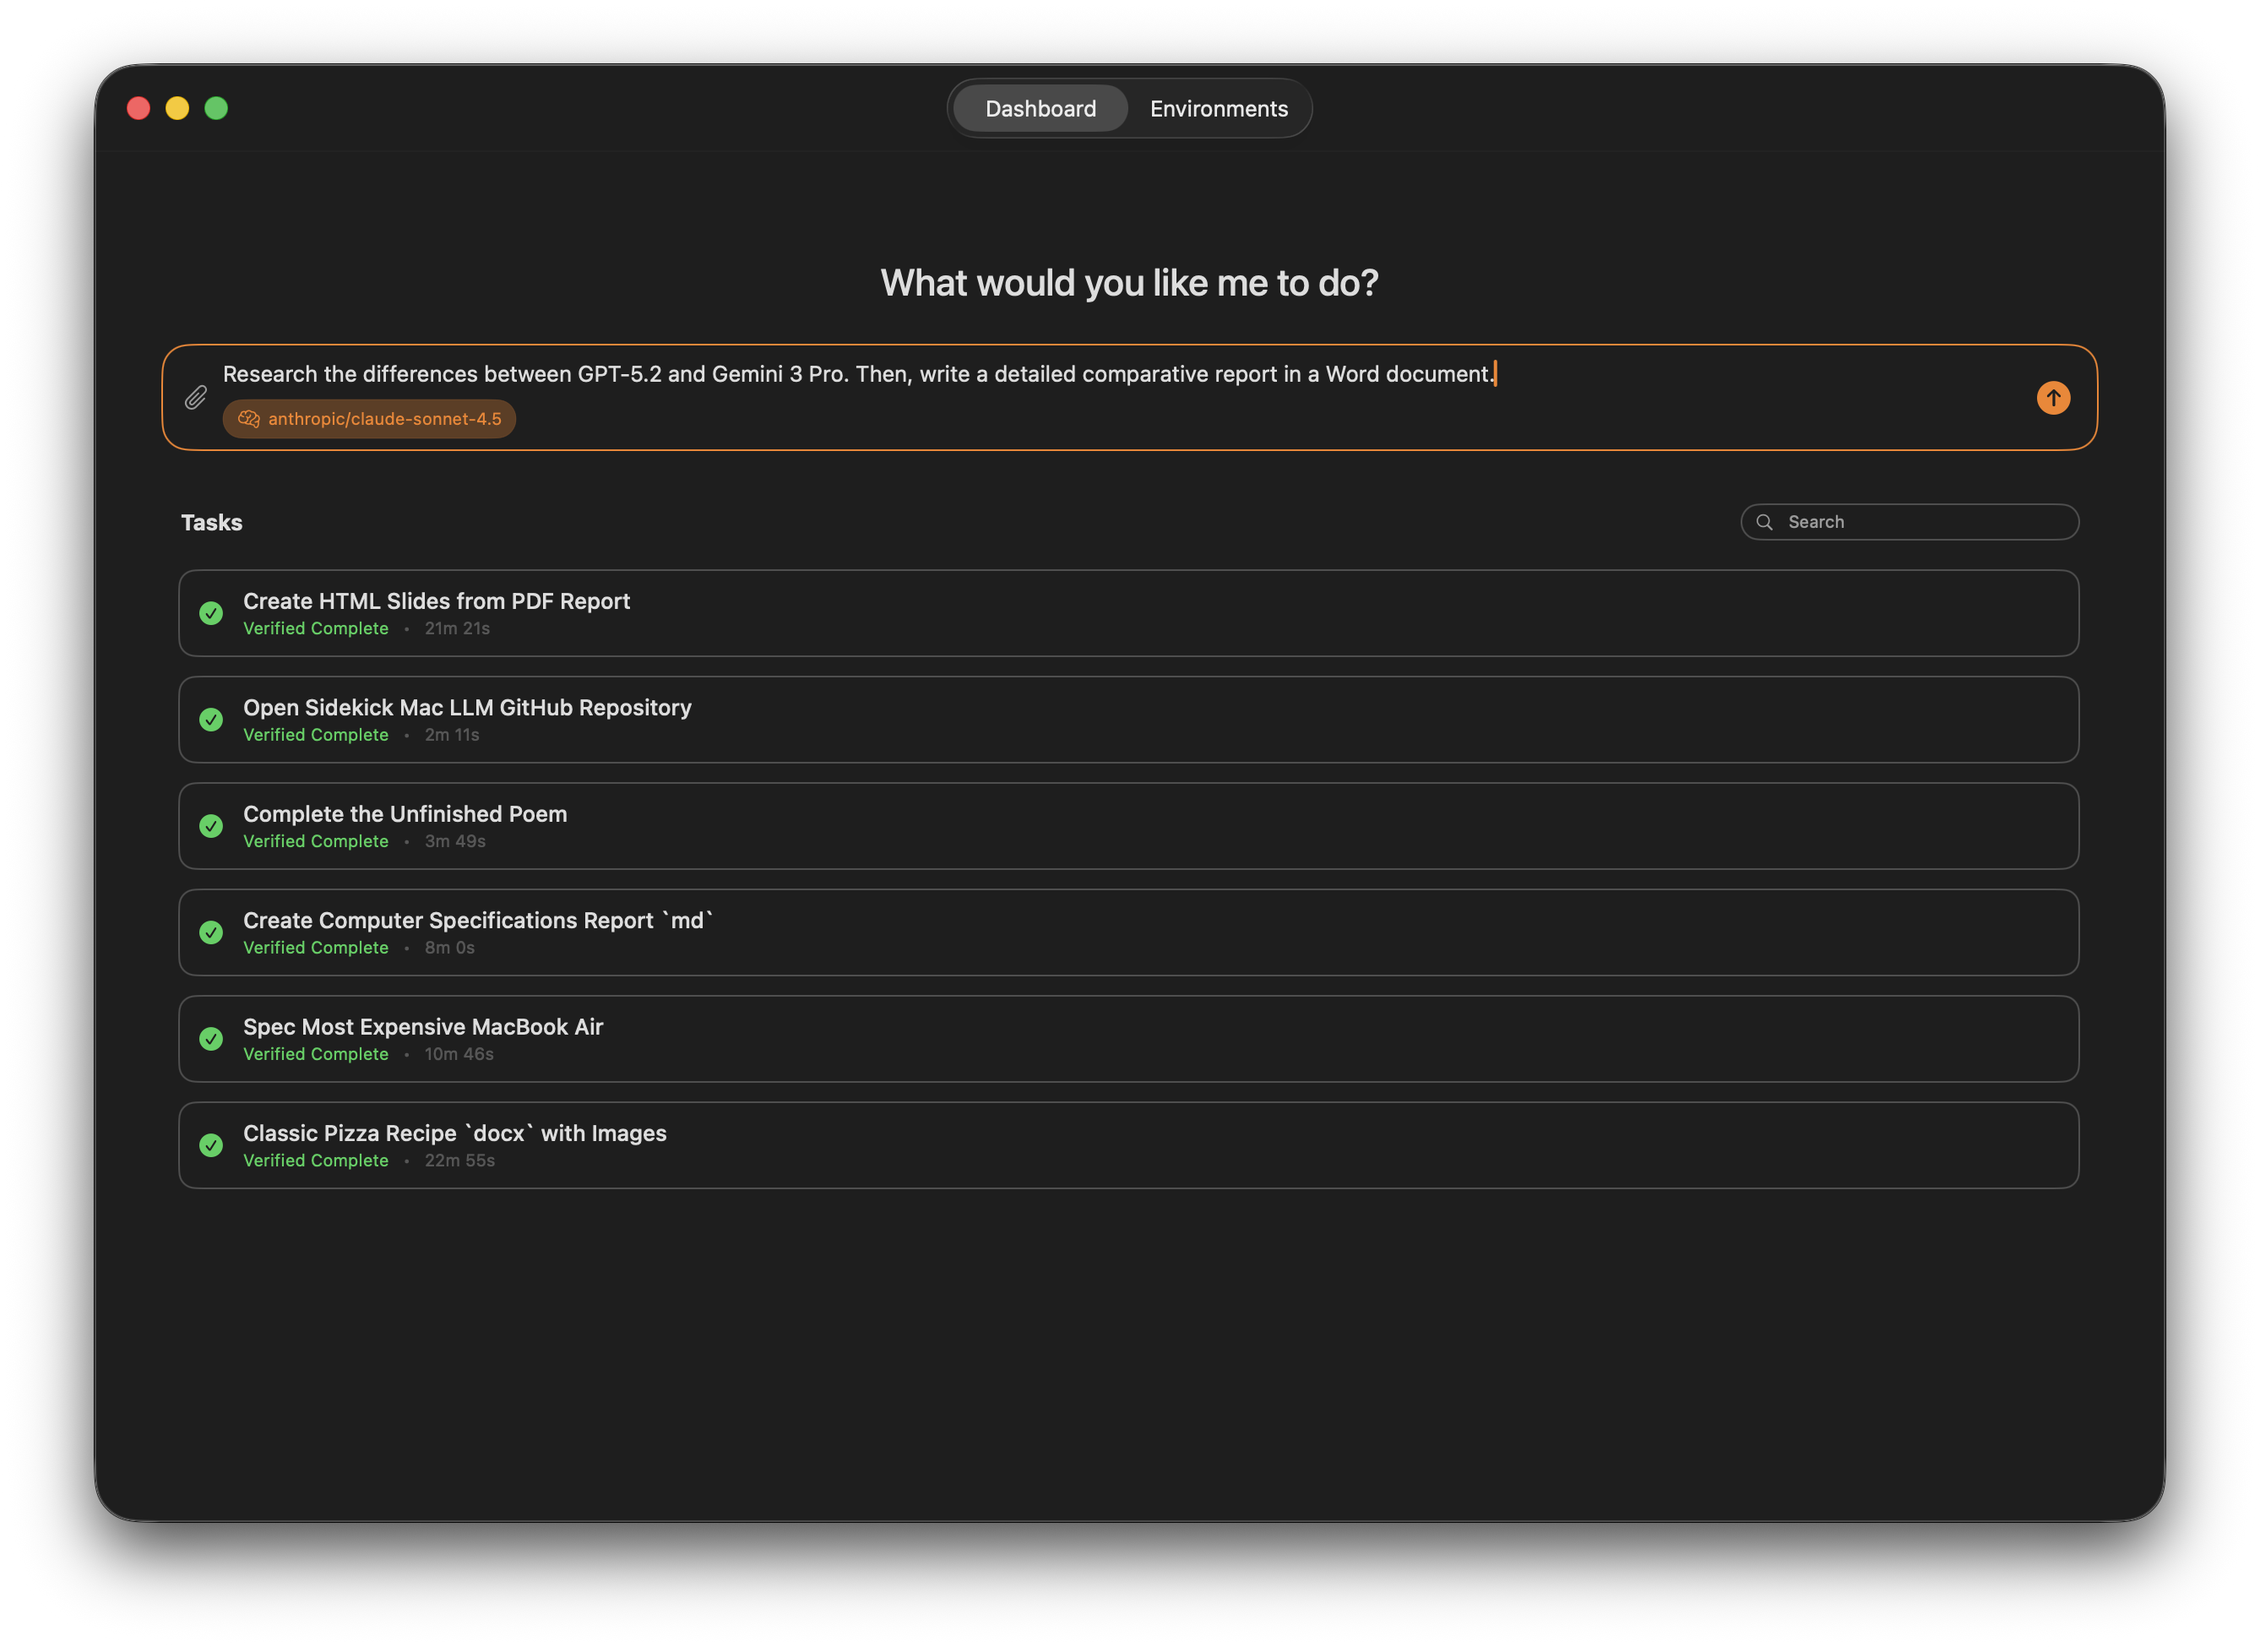
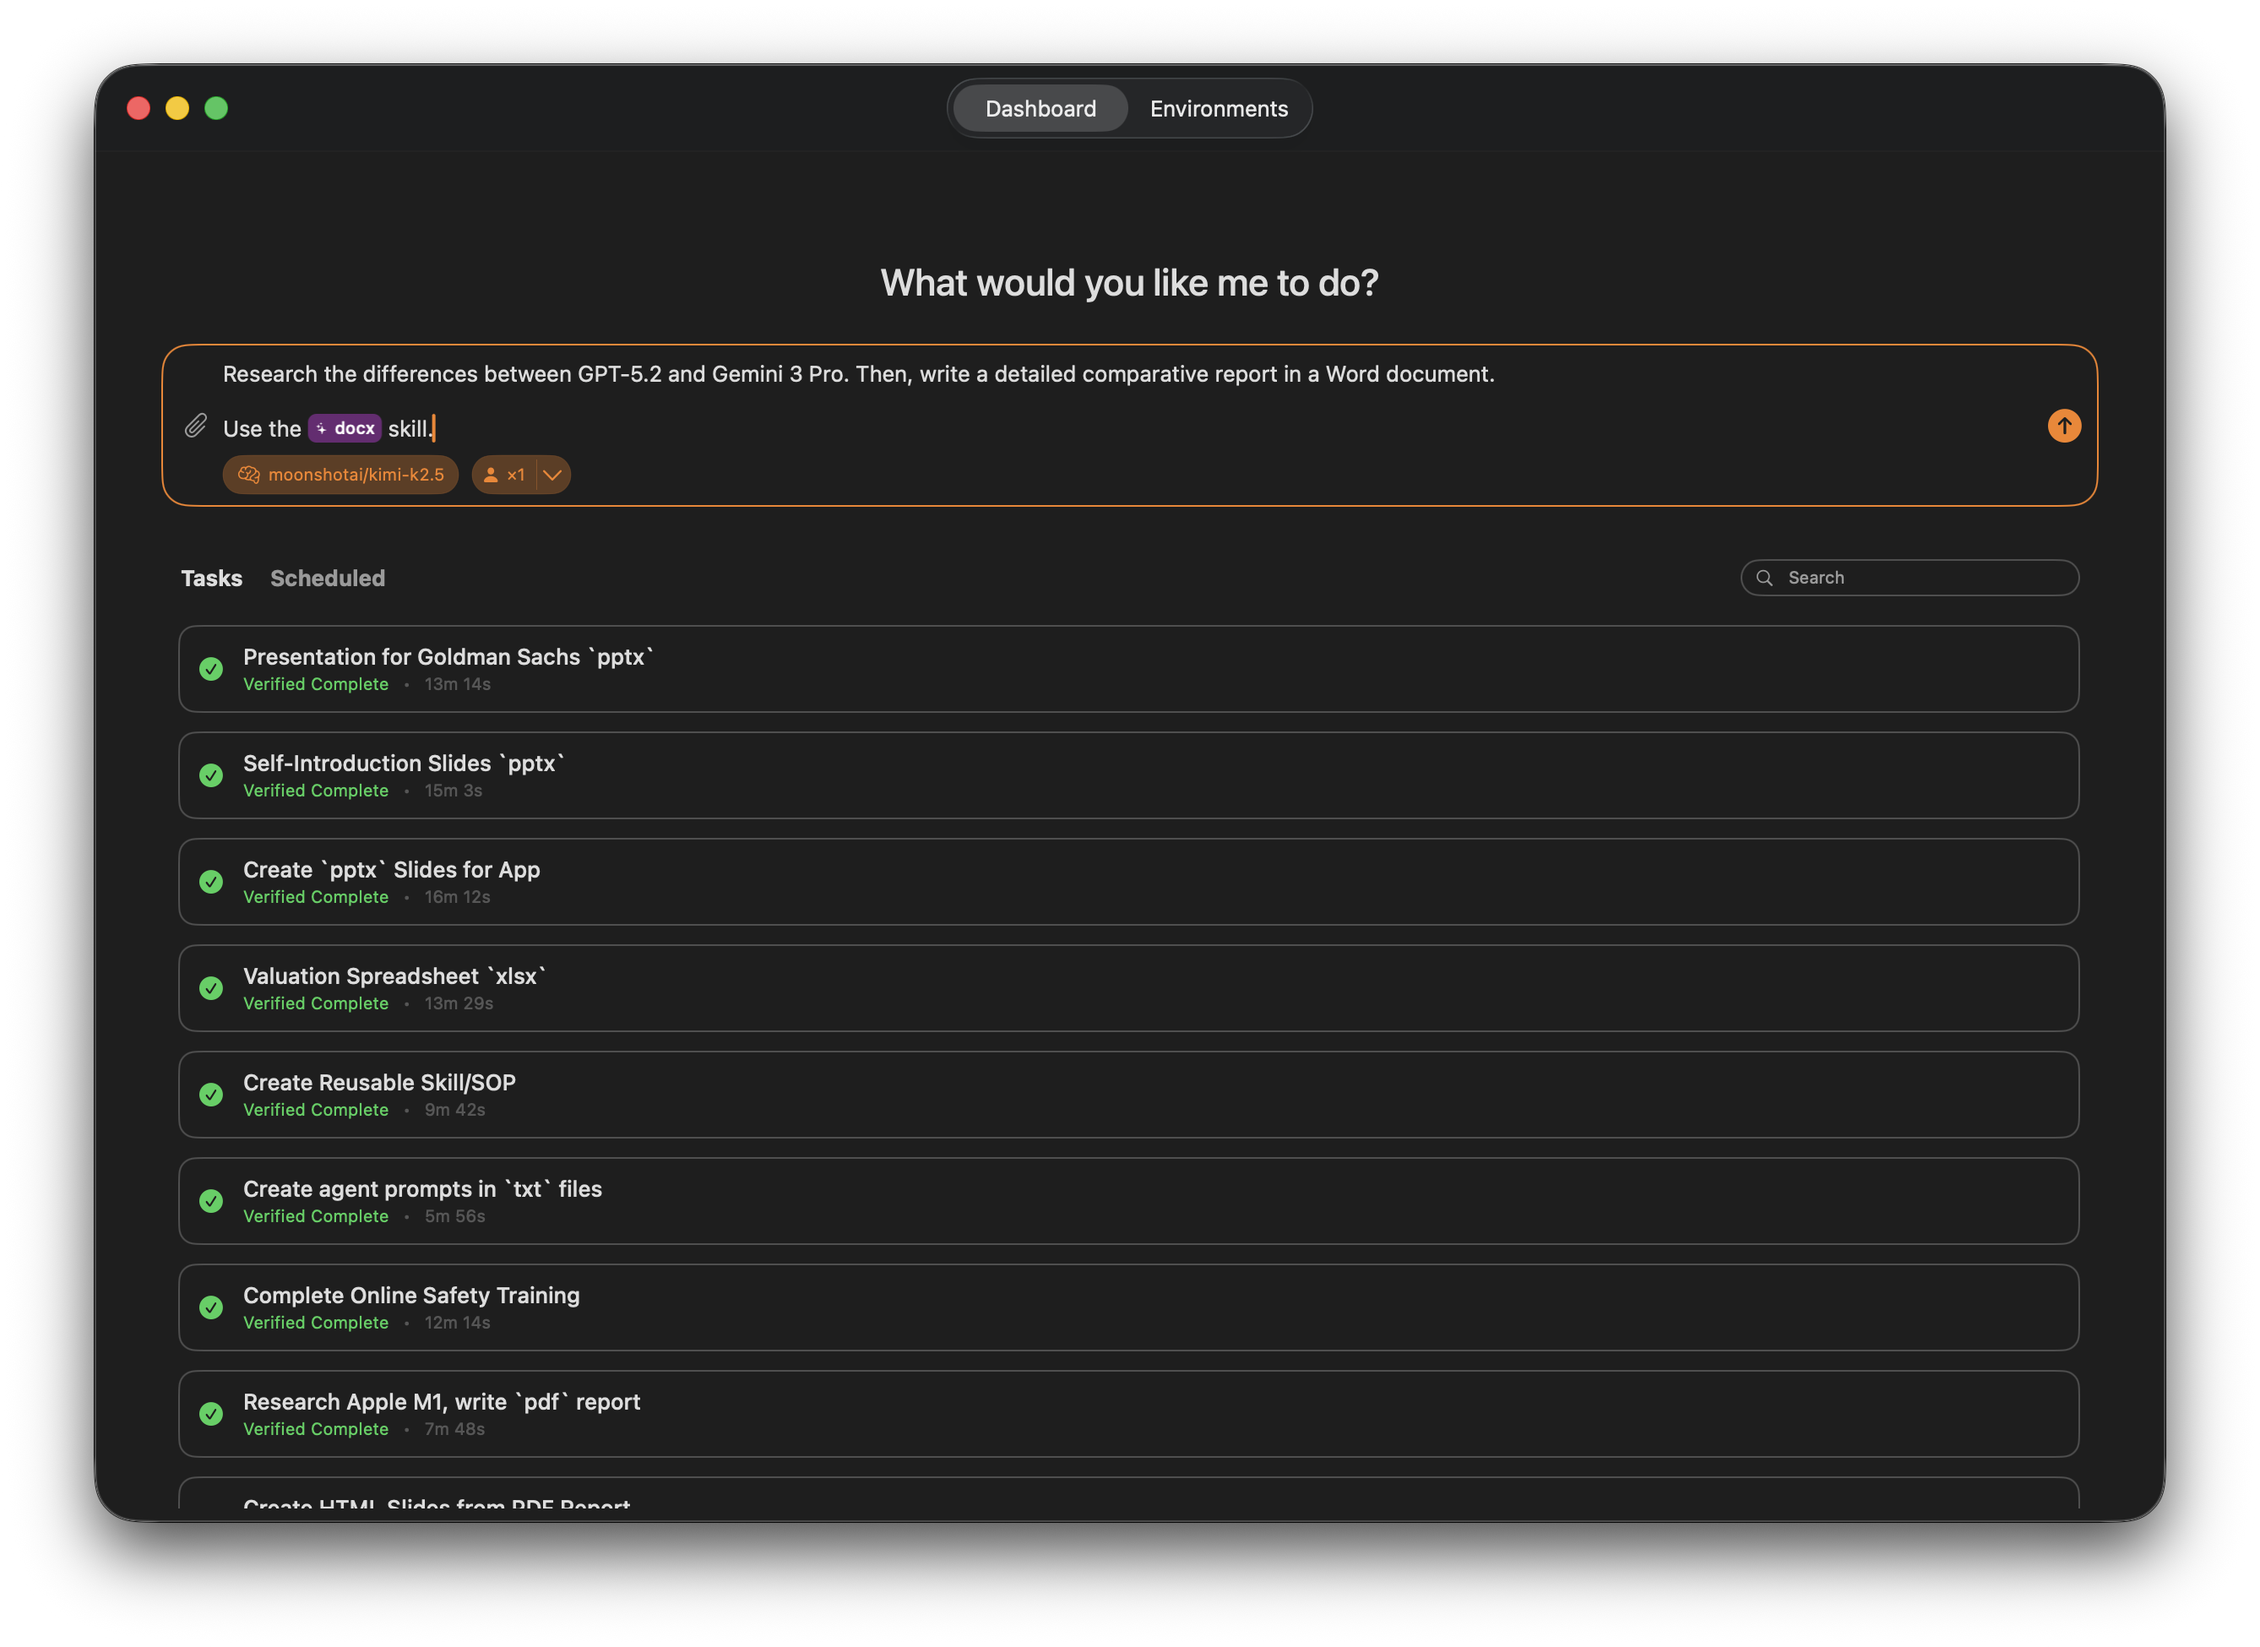
docs: Update feature set

diff --git a/Hivecrew/Hivecrew/Views/Environments/Agent/AgentTracePanel.swift b/Hivecrew/Hivecrew/Views/Environments/Agent/AgentTracePanel.swift
@@ -274,6 +274,7 @@ struct AgentTracePanel: View {
                             .lineLimit(3)
                     }
                 }
+                .textSelection(.enabled)
             }
         }
         .padding()

diff --git a/README.md b/README.md
@@ -14,42 +14,65 @@ Hivecrew is a native macOS app that runs AI computer use agents in dedicated mac
 
 ## Features
 
-- **Fully Isolated Execution**: Each agent runs in its own macOS VM with controlled file access and configurable network restrictions. Your host system stays completely protected.
+### Task Management
+
+- **Natural Language Tasks**: Describe what you want done in plain language; agents handle the rest
+- **File Attachments**: Attach input files using @ mentions or drag-and-drop, and specify output directories for deliverables
+- **Batch Execution**: Run multiple copies of the same task (1x, 2x, 4x, 8x) across parallel agents
+- **Task Queue**: Queue tasks for later and monitor status (queued, running, completed, failed)
+
+### Scheduling
+
+- **One-Time & Recurring**: Schedule tasks for a specific time or set up daily, weekly, or monthly recurrence
+- **Automatic Notifications**: Get notified when scheduled tasks start running
+- **Manual Trigger**: Instantly run any scheduled task on demand
+
+### Agent Supervision
 
 ![Agent Environment View](https://raw.githubusercontent.com/johnbean393/Hivecrew/main/.github/images/agent-environment.png)
 
-- **Parallel Agents**: Run multiple agents concurrently in separate VMs, each with its own task and environment.
+- **Live Monitoring**: Watch agents work in real time with live screenshots and activity streams
+- **Session Traces**: Review detailed step-by-step traces with synchronized screenshots after completion
+- **Video Export**: Export session traces as video for documentation or review
 
-- **Real-Time Supervision**: Watch agents work with live screenshots and activity logs. Jump into any agent's environment to observe or review detailed session traces afterward.
+### Human-in-the-Loop
 
-- **Human-in-the-Loop**: Pause any agent, take control with your mouse and keyboard, add clarifying instructions, then hand control back seamlessly.
+- **Take Control**: Pause any agent, use your mouse and keyboard directly, then resume
+- **Answer Questions**: Respond to agent questions via text or multiple choice when they need guidance
+- **Add Instructions**: Inject clarifying instructions mid-task without restarting
+- **Approve Actions**: Review and approve/deny tool permission requests
 
-- **Multi-LLM Support**: Works with Anthropic, OpenAI, and any OpenAI-compatible local LLM provider. Easy provider switching in settings.
+### Skills System
 
-- **Agent Skills**: Browse and apply pre-built skill templates that give agents specialized capabilities for common tasks like web research, data entry, or document processing. Skills can be discovered and applied to customize agent behavior.
+- **Pre-Built Skills**: Browse and apply skills for common tasks (web research, document processing, webapp testing)
+- **Skill Discovery**: Skills are automatically matched to tasks based on your description
+- **Import Skills**: Add skills from GitHub repositories or local directories
+- **Extract Skills**: Create new skills from successful task completions
 
-- **File Handover**: Attach input files to tasks using @ mentions in the prompt bar and specify output directories for deliverables. Agents work with files through a secure shared folder system.
+### LLM Providers
 
-- **Credential Management**: Securely provide login credentials to agents for authenticated workflows. Credentials are stored safely and passed to agents only when needed.
+- **Multi-Provider**: Works with Anthropic, OpenAI, OpenRouter, and any OpenAI-compatible API
+- **Per-Task Selection**: Choose which provider and model to use for each task
+- **Local LLMs**: Connect to local LLM servers with custom base URLs
 
-- **Safety Controls**: Built-in timeouts, iteration limits, tool permission controls, and emergency stop switches keep agents under control.
+### Credentials & Security
 
-- **Native Performance**: Built entirely in Swift with Apple's Virtualization framework. Optimized for Apple Silicon (M1/M2/M3/M4/M5).
+- **Secure Storage**: Store login credentials safely in Keychain
+- **On-Demand Access**: Credentials are passed to agents only when needed via secure tokens
+- **CSV Import**: Bulk import credentials from CSV files
 
-## Architecture
+### Safety Controls
 
-Hivecrew is built on three modular Swift packages:
+- **Full Isolation**: Each agent runs in its own macOS VM—your host system stays protected
+- **Network Control**: Configure per-VM network access (internet, offline, or host-only)
+- **Timeouts & Limits**: Set task timeouts and iteration limits
+- **Emergency Stop**: Instantly halt any agent at any time
 
-- **HivecrewAgentProtocol**: Communication protocol between host and guest agents via virtio-vsock
-- **HivecrewLLM**: Multi-provider LLM client supporting OpenAI-compatible APIs with tool calling and tracing
-- **HivecrewShared**: Shared types and VM management protocols
+### API & Automation
 
-The app runs agents in macOS Tahoe VMs with a lightweight guest agent that provides automation tools including:
-- Screenshot capture and UI observation
-- File operations with controlled scope
-- App launching and native automation
-- Mouse/keyboard control for UI-only workflows
-- Shell command execution
+- **REST API**: Control Hivecrew programmatically—create tasks, manage schedules, upload files, and download results
+- **Python SDK**: Use the `hivecrew` package for easy integration with Python workflows
+- **Web Interface**: Access a built-in web UI for remote task management
 
 ## Requirements
 
@@ -162,25 +185,6 @@ Contributions are welcome! Areas where help would be particularly valuable:
 - UI/UX improvements
 - Testing and reliability
 - Documentation
-
-## Technical Details
-
-### Communication
-- Host ↔ VM Host Service: XPC with Codable messages
-- VM Host Service ↔ Guest Agent: virtio-vsock JSON-RPC
-- Shared files: VirtioFS mount for controlled file exchange
-
-### Persistence
-- SwiftData for task queue, sessions, VM registry
-- File bundles for VM images, templates, and session traces
-- Keychain for API keys
-
-### Safety Features
-- Per-VM isolated shared folders
-- Configurable network access (internet, offline, or host-only)
-- Tool permission controls
-- Timeout enforcement
-- Emergency stop controls
 
 ## License
 
